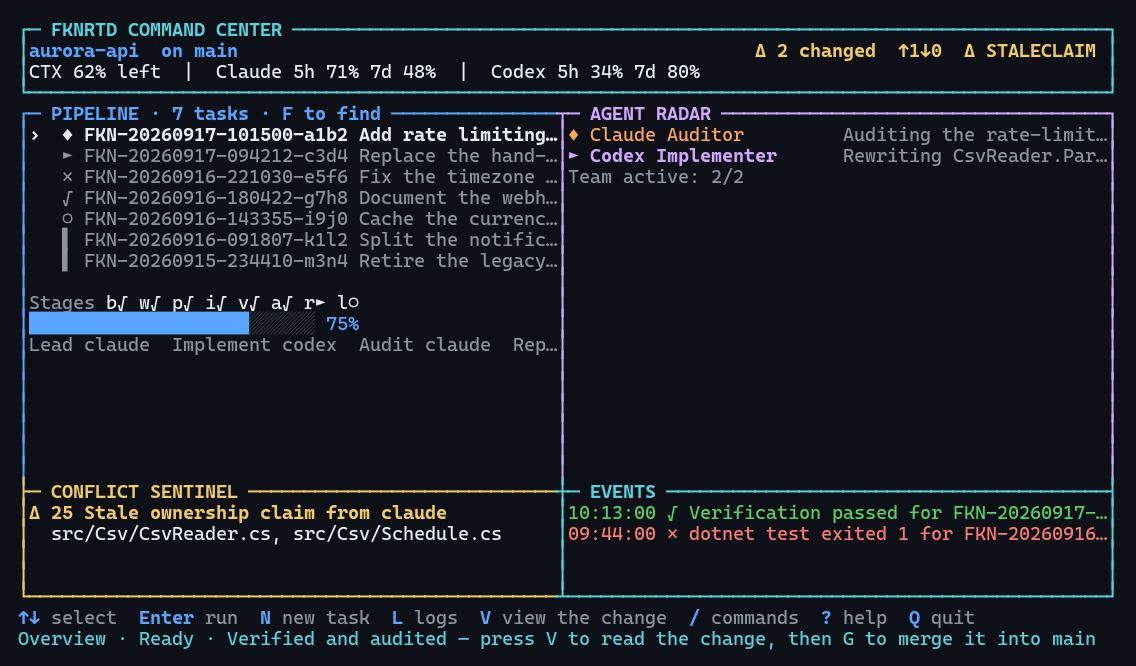
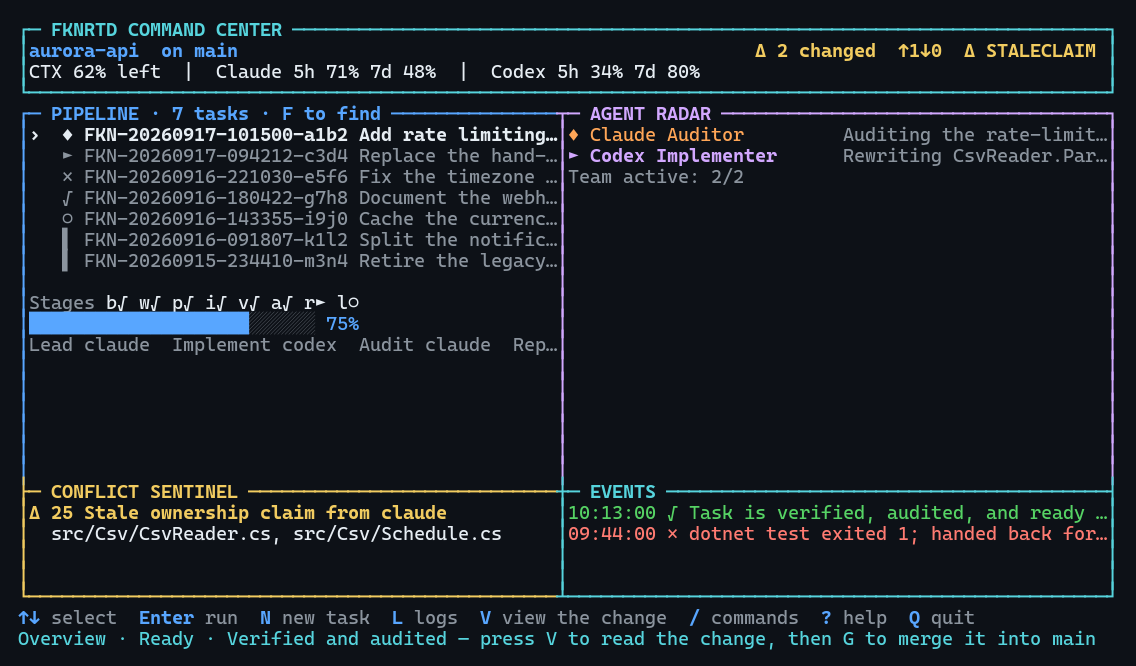
Stop the history screen teaching words that do not exist
The events screen showed `stage.passed` and `stage.failed`. This product has
never recorded either of them. Its vocabulary is eleven types in EventTypes, and
neither is among them — so the one screen whose job is to teach an operator what
the history records was teaching two words they will never see again.

That is precisely the drift EventTypes was created to stop. It was created
because the history's own description had claimed per-stage events twice, and
the sample data went on claiming the same thing from the other side.

The scene uses real types now, with the task each event belongs to. The existing
vocabulary test — which checked the documentation — also checks the events the
scenes draw, which is the half that was missing: documentation derived from a
table cannot invent a type, and sample data written by hand can.

The portal's own sample workspace already used the constants.

67 self-tests pass; 10,560 renders across 48 scenes.

Changed region(s): [[0.5854, 0.7508, 0.9859, 0.8108]]

diff --git a/tests/FKNRTD.SelfTest/Scenes.cs b/tests/FKNRTD.SelfTest/Scenes.cs
@@ -579,18 +579,24 @@ internal static class Scenes
                     Delivery = MessageDelivery.Delivered, CreatedAt = captured.AddMinutes(-4)
                 }
             ],
+            // Types from EventTypes, not invented ones. These two were "stage.passed" and
+            // "stage.failed", which this product has never recorded - so the history screen was
+            // teaching a vocabulary that does not exist, which is the exact drift EventTypes was
+            // created to stop.
             Events =
             [
                 new FknrtdEvent
                 {
-                    Severity = EventSeverity.Success, Type = "stage.passed",
-                    Message = "Verification passed for FKN-20260917-101500-a1b2",
+                    Severity = EventSeverity.Success, Type = EventTypes.WorkflowReady,
+                    Message = "Task is verified, audited, and ready to land.",
+                    TaskId = "FKN-20260917-101500-a1b2",
                     Timestamp = captured.AddMinutes(-2)
                 },
                 new FknrtdEvent
                 {
-                    Severity = EventSeverity.Error, Type = "stage.failed",
-                    Message = "dotnet test exited 1 for FKN-20260916-221030-e5f6",
+                    Severity = EventSeverity.Error, Type = EventTypes.WorkflowRepair,
+                    Message = "dotnet test exited 1; handed back for repair.",
+                    TaskId = "FKN-20260916-221030-e5f6",
                     Timestamp = captured.AddMinutes(-31)
                 }
             ],

diff --git a/tests/FKNRTD.SelfTest/Program.cs b/tests/FKNRTD.SelfTest/Program.cs
@@ -2520,6 +2520,15 @@ static async Task TestTaskReadingCommandsAsync()
 /// </summary>
 static Task TestEventVocabularyAsync()
 {
+    // Including the events the scenes draw. The history screen was showing "stage.passed" and
+    // "stage.failed", which this product has never recorded, so the one screen whose job is to
+    // teach the vocabulary was teaching two words that are not in it.
+    foreach (var recorded in Scenes.PopulatedSnapshot().Events)
+    {
+        True(EventTypes.All.Contains(recorded.Type),
+            $"The history screen shows '{recorded.Type}', which is a type this product records");
+    }
+
     Equal(EventTypes.All.Count, EventTypes.All.Distinct(StringComparer.Ordinal).Count(),
         "Event types are unique");
     foreach (var type in EventTypes.All)
